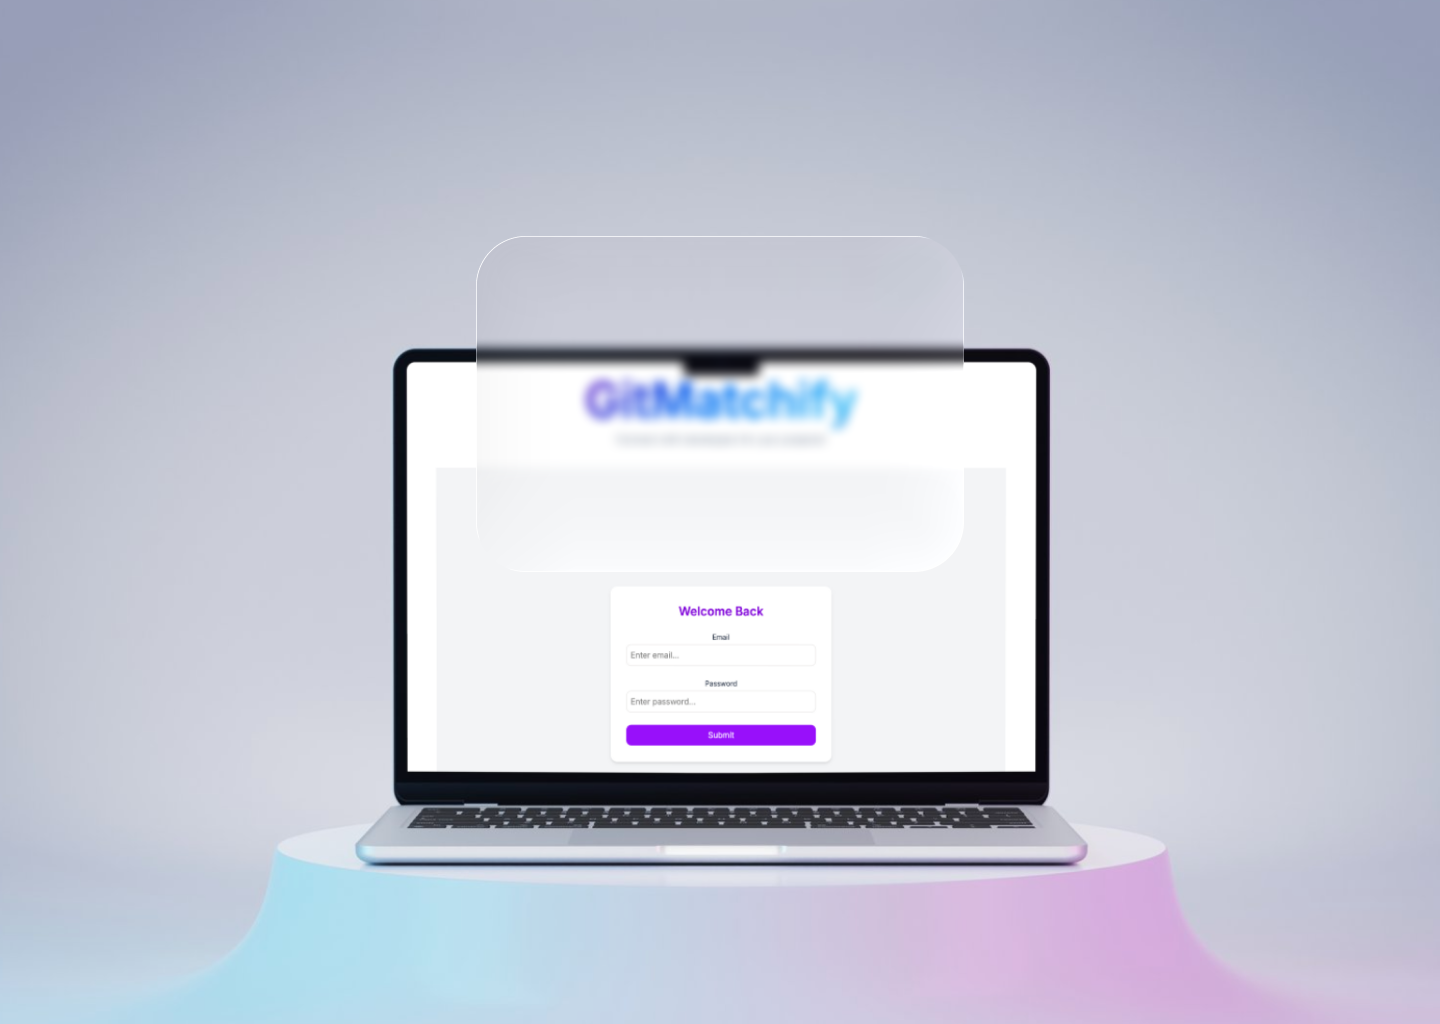
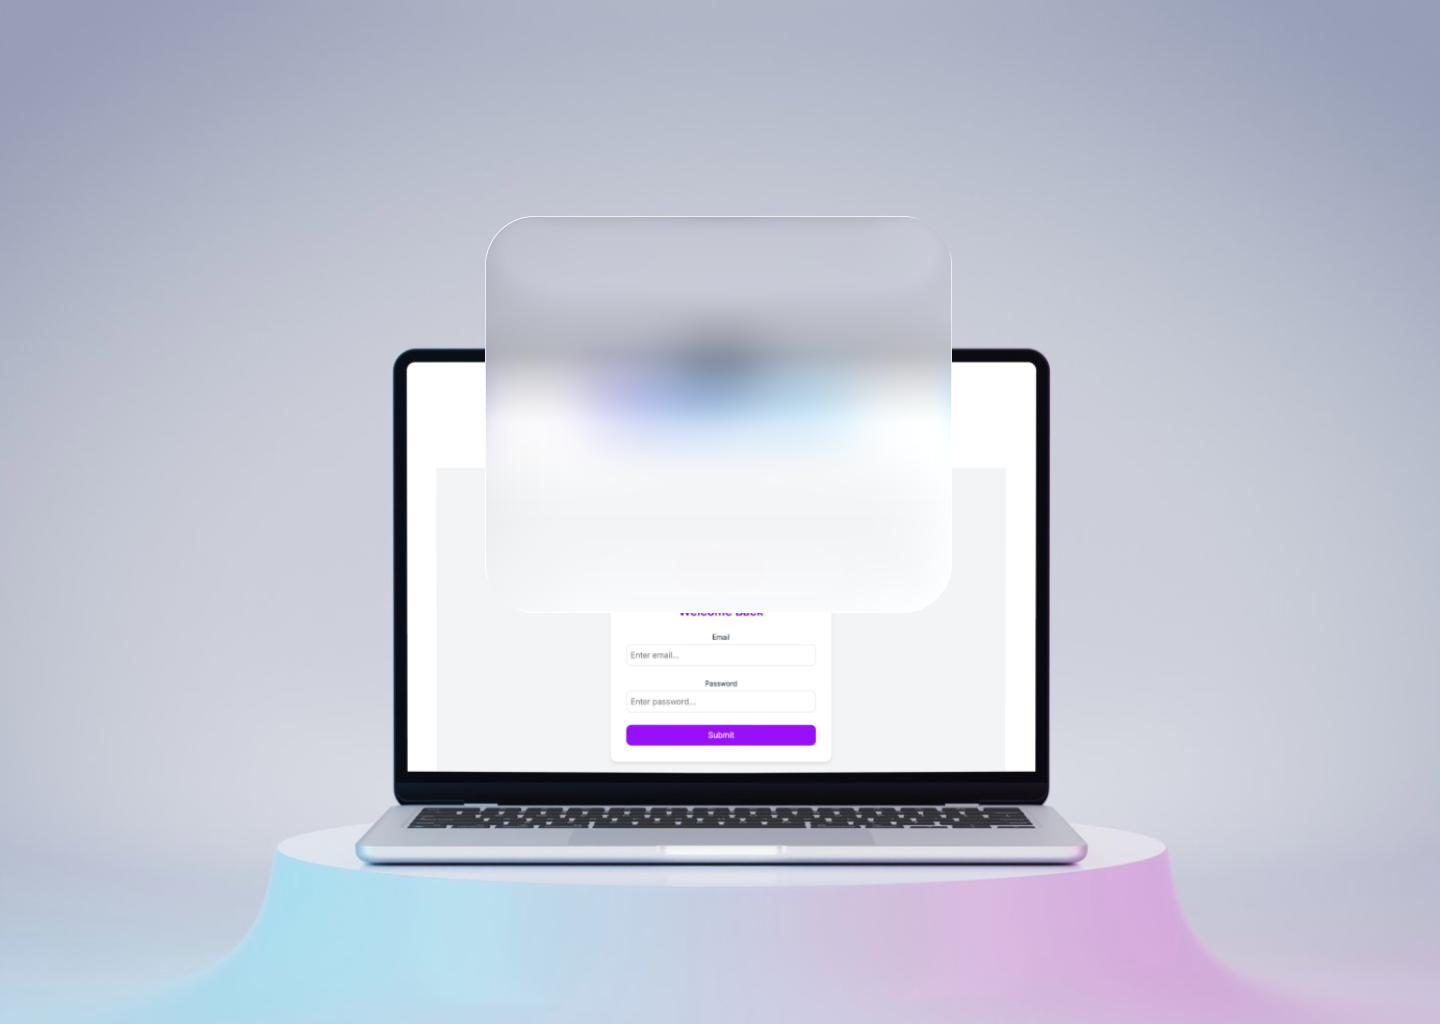
bg fix

Changed region(s): [[0.3125, 0.3125, 0.6875, 0.4375], [0.4688, 0.5938, 0.5312, 0.625]]

diff --git a/client/src/App.css b/client/src/App.css
@@ -80,6 +80,7 @@
 
 .home-desc {
   font-size: 1.125rem; /* text-lg */
+  font-weight:bolder;
   color: #4b5563; /* text-gray-700 */
   margin-bottom: 1.5rem; /* mb-6 */
 }
@@ -117,13 +118,15 @@
 
 /* Adjust content box styling */
 .home-box {
-  background-color: rgba(255, 255, 255, 0.85);
+  
+  font-weight: 20px;
   padding: 2rem;
   border-radius: 1rem;
   max-width: 500px;
   width: 100%;
-  box-shadow: 0 4px 10px rgba(0,0,0,0.15);
+  
   text-align: center;
+  margin-top: -400px;
 }
 
 /* Titles and buttons can stay as you already styled */
